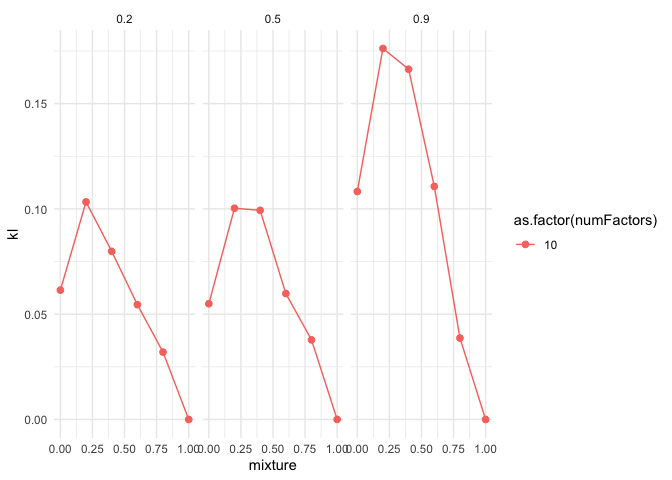
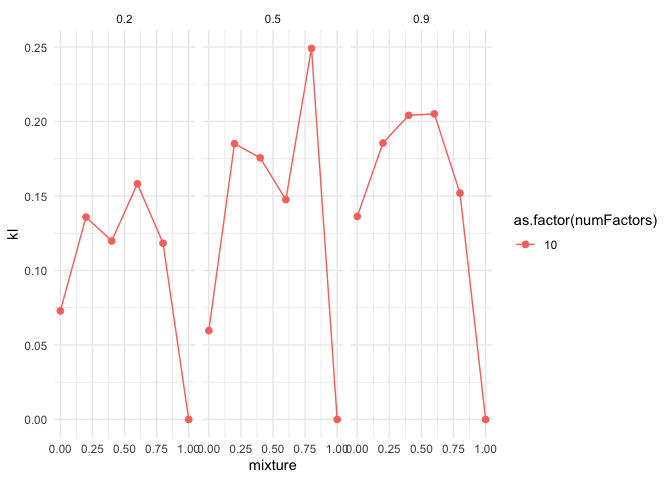
quick check new low rank plus

diff --git a/R/boral/svdApprox.md b/R/boral/svdApprox.md
@@ -25,8 +25,8 @@ svdApprox <- function(mat, numFactors){
 
 ``` r
 setwd("/Users/Sara/Desktop/communityDimensions/R/simulation_setup")
-load(file="test_data/testLFMats_lowRankPlus.RData")
-load(file="test_data/testPerturbMats_lowRankPlus.RData")
+load(file="simulation_study_data/matrices/lfPart_lowRankPlus.RData")
+load(file="simulation_study_data/matrices/perturbPart_lowRankPlus.RData")
 
 
 numSpecies = 15
@@ -136,6 +136,7 @@ goodRatio = subset(scenarios, numSpecies==5)
 ```
 
 ``` r
+## adding diagonal is not good, still have to figure out invertibility stuff
 klDivergence(svdApprox(trueMats[[7]],1)+diag(nrow(trueMats[[7]])), trueMats[[7]]+diag(nrow(trueMats[[7]])))
 ```
 
